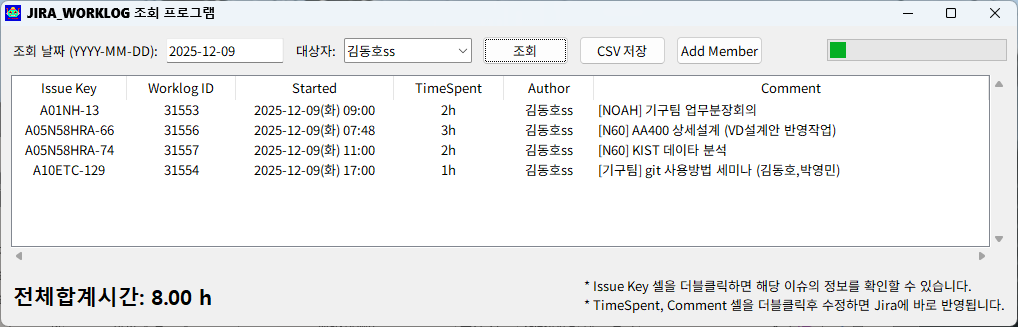
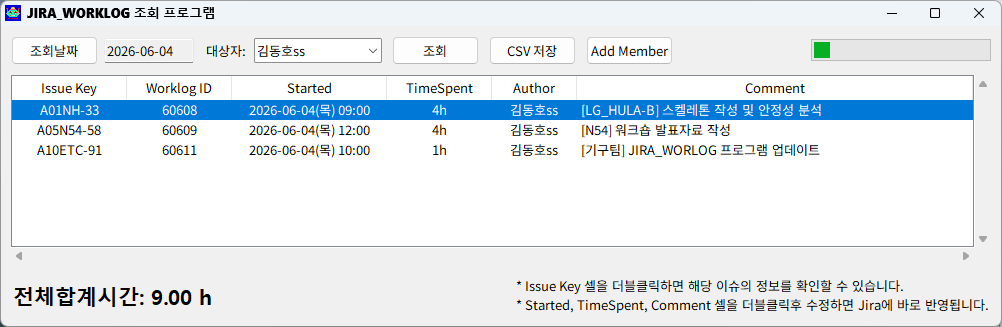
docs: README.md 사용자 설명 가이드 업데이트

diff --git a/README.md b/README.md
@@ -1,67 +1,116 @@
+# 🛠️ Jira Worklog & Confluence Weekly 관리 도구
 
-# 개요
+Jira의 업무 로그(Worklog)를 간편하게 조회 및 수정하고, Confluence의 주간 업무 블로그 게시글을 깔끔한 Markdown 파일로 내보낼 수 있는 데스크톱 유틸리티 패키지입니다.
 
-![](JIRA_WORKLOG.png)
+![JIRA_WORKLOG 개요](JIRA_WORKLOG.png)
 
-# 실행 조건
-* 파이썬 패키지 관리자 uv가 설치되어 있을 것
+---
 
-## uv 설치 방법
-* scoop를 이용하여 설치 (유저권한, 권장, scoop 패키지 관리자를 사용하는 경우)
+## 📌 주요 기능
+
+### 1. Jira 업무 로그(Worklog) 관리 (`main.py` / `JIRA_WORKLOG.bat`)
+* **업무 로그 일괄 조회**: 날짜와 대상자를 선택해 간편하게 하루 업무 로그를 한눈에 확인합니다.
+* **합계 시간 계산 및 경고**: 하루 총 입력 시간이 **9.0시간**(근무 8시간 + 점심 1시간 기준 등)이 아닐 경우 합계 시간이 빨간색으로 표시되어 기입 누락이나 초과 여부를 쉽게 인지할 수 있습니다.
+* **실시간 원격 수정 (더블클릭)**:
+  * **Started (작업시작일시)**: 달력 및 시간 선택 팝업을 통해 직관적으로 시작 일시를 변경합니다.
+  * **TimeSpent (소요시간)**: 셀을 더블클릭하여 시간을 수정하면 Jira에 실시간 적용됩니다 (예: `2h`, `30m`).
+  * **Comment (내용)**: 업무 내용을 즉시 수정할 수 있습니다.
+* **이슈 상세 정보 조회**: **Issue Key** 셀을 더블클릭하면 팝업창으로 해당 Jira 이슈의 제목, 상태, 담당자, 설명 등을 바로 확인합니다.
+* **중복 로그 강조**: 시작 시간이 동일하여 중복 기입된 로그는 빨간색으로 표시되어 실수를 방지합니다.
+* **CSV 내보내기**: 조회된 결과를 언제든지 CSV 파일로 저장할 수 있습니다.
+
+### 2. 주간업무일지 초안 작성하기 (Confluence 블로그 내용을 읽어서 재작성) (`weekly.py` / `weekly.bat`)
+* **Space 별 블로그 조회**: Confluence의 Space 목록을 불러와 등록된 블로그 게시물(주간 보고 등)을 가져옵니다.
+* **Markdown 변환**: HTML 기반의 Confluence 포맷을 깔끔한 마크다운(`.md`) 파일로 정제하여 `weekly/output/` 폴더에 저장합니다.
+* **업무 템플릿 최적화**: 테이블 내의 줄바꿈 처리, 프로젝트 식별자(`[프로젝트명]`) 자동 접두사 삽입, 현황/담당자 정보 병합 등 가독성 높은 표 형식으로 자동 정렬됩니다.
+
+---
+
+## ⚙️ 최초 실행 환경 설정
+
+프로그램을 처음 사용할 때만 거쳐야 하는 초기 설정 과정입니다.
+
+### 1. Jira API 토큰 발급 받기
+Jira 서버와 연동하기 위해 개인 API 토큰이 필요합니다.
+1. Jira 브라우저 페이지 우측 상단의 **프로필 아이콘** 클릭 ➡️ **Manage account (계정 관리)** 선택
+2. 상단 메뉴의 **Security (보안)** 탭 클릭
+3. **Create and manage API tokens** 클릭 ➡️ **Create API token** 버튼 클릭
+4. 구분하기 쉬운 Label명(예: `worklog-tool`)을 입력하고 **Create** 클릭
+5. **생성된 토큰을 복사하여 안전한 곳에 보관합니다.** (최초 노출 이후 다시 확인할 수 없습니다.)
+
+### 2. Python 패키지 관리자 `uv` 설치
+이 프로그램은 빠르고 안정적인 패키지 실행을 위해 `uv`를 사용합니다. 컴퓨터 환경에 맞는 명령어를 터미널(PowerShell 등)에 입력해 설치하세요.
+
+> [!TIP]
+> Windows 11 사용자는 **winget** 방식을 가장 권장합니다.
+
+* **Windows 11 기본 패키지 관리자 사용 (권장)**:
+  ```powershell
+  winget install --id=astral-sh.uv -e
+  ```
+* **Scoop 패키지 관리자 사용 시**:
+  ```powershell
+  scoop install uv
+  ```
+
+
+### 3. 가상환경 구성하기
+프로그램이 있는 폴더에서 터미널을 열고 아래 명령어를 실행하여 가상환경을 초기화합니다.
+```powershell
+uv venv
 ```
-scoop install uv
-```
 
-* winget을 이용하여 설치 (유저권한, 권장, MS-Windows 11 사용하는 경우)
-```
-winget install --id=astral-sh.uv -e
-```
+---
 
-* 정규 배포판으로 설치 방법 (관리자권한)
-```
-# Powershell을 관리자 권한으로 실행한 후, 아래 명령어 입력해서 실행
-powershell -ExecutionPolicy ByPass -c "irm https://astral.sh/uv/install.ps1 | iex"
-```
+## 🚀 사용 방법
 
+### Step 1: 최초 실행 및 인증/사용자 등록
+1. **`JIRA_WORKLOG.bat`** 파일을 더블클릭하여 실행합니다.
+2. 최초 실행 시 인증 정보나 사용자가 없으면 **Jira Member Adder** 팝업창이 자동으로 뜹니다.
+   * **Jira API Token**: 위에서 발급받은 API 토큰을 입력합니다.
+   * **jira_api_email**: 본인의 Jira 계정 이메일 주소를 입력합니다.
+   * **Search User by Email**: 조회 및 등록하고 싶은 팀원의 이메일을 입력하고 **Add User**를 클릭합니다.
+   * 본인을 포함해 관리가 필요한 팀원들을 차례대로 검색해 등록해 줍니다. (등록된 정보는 `members.csv`에 저장됩니다.)
+3. 등록 완료 후 **EXIT** 버튼을 누르면 메인 화면으로 돌아옵니다.
 
-# 사용방법
+### Step 2: 업무 로그 조회 및 수정하기
+1. **대상자 선택**: 상단의 `대상자` 드롭다운에서 조회할 인원을 선택합니다.
+2. **조회 날짜 선택**: `조회날짜` 버튼을 클릭해 달력에서 날짜를 지정합니다 (기본값: 오늘).
+3. **조회**: `조회` 버튼을 누르면 해당 날짜의 업무 로그 목록이 나타납니다.
+4. **수정 및 편집**:
+   * **Started / TimeSpent / Comment** 셀을 더블클릭하여 수정 후 Enter를 누르면 Jira 서버에 즉시 동기화됩니다.
+   * **Issue Key** 셀을 더블클릭하면 상세 내용을 바로 읽을 수 있는 팝업이 표시됩니다.
+5. **결과 저장**: `CSV 저장` 버튼으로 현재 표에 표시된 데이터를 파일로 보관할 수 있습니다.
+6. **멤버 추가**: 팀원이 늘어난 경우 `Add Member` 버튼을 눌러 언제든 추가 등록할 수 있습니다.
 
-## jira_api_token 만들기 (최초1회)
-* Jira 브라우저 페이지 오른쪽 상단의 자신의 아이디 아이콘을 누른다.
-* `Manage acount`를 누른다.
-* 상단의 `Security`를 누른다.
-* `Create and manage API tokens`를 누른다.
-* `Create API token`을 누른다.
-* `Name`을 적당하게 적어주고, `Expired on`은 충분히 오랜 날짜로 설정해 준다.
-* `Create`를 눌러준다.
-* 생성된 API token을 복사해서, 잘 보관해 둔다.  두 번 다시 보여주지 않기 때문에 분실할 경우 새로 생성해야 한다.
+### Step 3: Confluence 주간 업무 가져오기 (Confluence Exporter)
+1. **`weekly.bat`** 파일을 더블클릭하여 실행합니다.
+2. 상단 드롭다운에서 원하는 **Space**를 선택합니다 (기본값: 기구팀 space).
+3. 하단 표에 해당 Space의 블로그 게시물 목록이 최신순으로 나열됩니다.
+4. 내보낼 글을 마우스로 선택(Shift/Ctrl 다중 선택 가능)한 뒤 **선택 블로그 MD로 저장** 또는 **전체 블로그 MD로 저장** 버튼을 누릅니다.
+5. **`weekly/output/`** 폴더에 깔끔하게 정제된 마크다운(`.md`) 파일들이 저장된 것을 확인합니다.
 
-## 실행아이콘 만들기 (최초1회)
-* `JIRA_WORKLOG.bat` 파일의 바로가기 만들기
-* 바로가기 아이콘을 원하는 위치에 배치해 두고 사용
-* 바로가기 아이콘 설정에서, 'robot_1211_V01.ico' 파일을 지정해서 예쁜 아이콘으로 변경 가능함
+---
 
-## UV 가상환경 체크하기 (최초1회)
-* `./JIRA_WORKLOG` 폴더에서 터미널 열기
-* `uv venv` 명령 입력 (가상환경 초기화)
+## 📂 주요 파일 구성 안내
 
-## 최초 실행
-* `JIRA_WORKLOG.bat` 파일 더블클릭해서 실행
+| 파일 / 폴더명 | 구분 | 설명 |
+| :--- | :--- | :--- |
+| `JIRA_WORKLOG.bat` | 실행 파일 | 메인 Jira 업무 로그 관리 프로그램 실행 |
+| `add_member.bat` | 실행 파일 | Jira API 토큰/이메일 설정 및 멤버 등록 프로그램 실행 |
+| `weekly.bat` | 실행 파일 | Confluence 블로그 가져오기 프로그램 실행 |
+| `main.py` | 소스 코드 | 업무 로그 조회/수정 GUI 코어 코드 |
+| `add_member.py` | 소스 코드 | 사용자 추가 및 인증 정보 설정 GUI 코드 |
+| `weekly/weekly.py` | 소스 코드 | Confluence 블로그 조회 및 MD 변환기 소스 |
+| `members.csv` | 데이터 | 이름, Jira AccountID, 이메일 매핑 데이터 저장 파일 |
+| `jira_api_token.txt` | 보안 | 발급받은 Jira API Token이 암호화 없이 텍스트로 보관되는 파일 (외부 유출 주의) |
+| `jira_api_email.txt` | 인증 | 인증용 사용자의 이메일 주소가 저장되는 파일 |
+| `weekly/output/` | 폴더 | Confluence에서 내보낸 Markdown 파일들이 저장되는 곳 |
 
-### 'Jira Member Adder' 팝업창이 뜨면, 
-* jira_api_token 및 jira_api_email 입력칸을 채워준다.
-* `Search User by Email` 항목에 조회하고자 하는 사용자의 이메일 입력
-* `Search` 버튼을 눌러서 해당 이메일의 사용자 정보 확인
-* `Add to members.csv` 버튼을 눌러서 추가 등록
-* 반복적으로 여러 사용자를 등록 가능함
-* `EXIT` 버튼으로 팝업창 종료
+---
 
-## 사용하기
-* `JIRA_WORKLOG.bat` 파일 더블클릭해서 실행
-* Worklog 기록된 시간을 알고싶은 날짜를 입력하고 실행버튼 클릭하면 됨
-* 맨 마지막 업무시간이 전체 합산 시간임
-* Issue Key 셀을 더블클릭하면 팝업창으로 해당 이슈 정보 확인 가능
-* TimeSpent, Comment 셀은 더블클릭해서 수정하면 Jira에도 바로 반영됨
+## ⚠️ 주의사항
 
-## 주의사항
-* 자신이 아닌 다른 사람의 업무로그를 함부로 수정하지 말 것 (민폐조심)
+> [!WARNING]
+> * **보안 주의**: `jira_api_token.txt` 파일에는 사용자의 Jira API 토큰이 평문으로 저장됩니다. 이 파일이 Git이나 공용 저장소 등에 노출되지 않도록 각별히 주의해 주세요 (기본적으로 `.gitignore`에 등록되어 있습니다).
+> * **로그 수정 주의**: 타인의 업무 로그를 더블클릭하여 수정할 경우에도 실제 Jira 서버에 실시간으로 반영됩니다. 협업 중 오작동이나 혼선을 피하기 위해 가급적 **자신의 업무 로그 위주로만 수정**하는 것을 권장합니다.